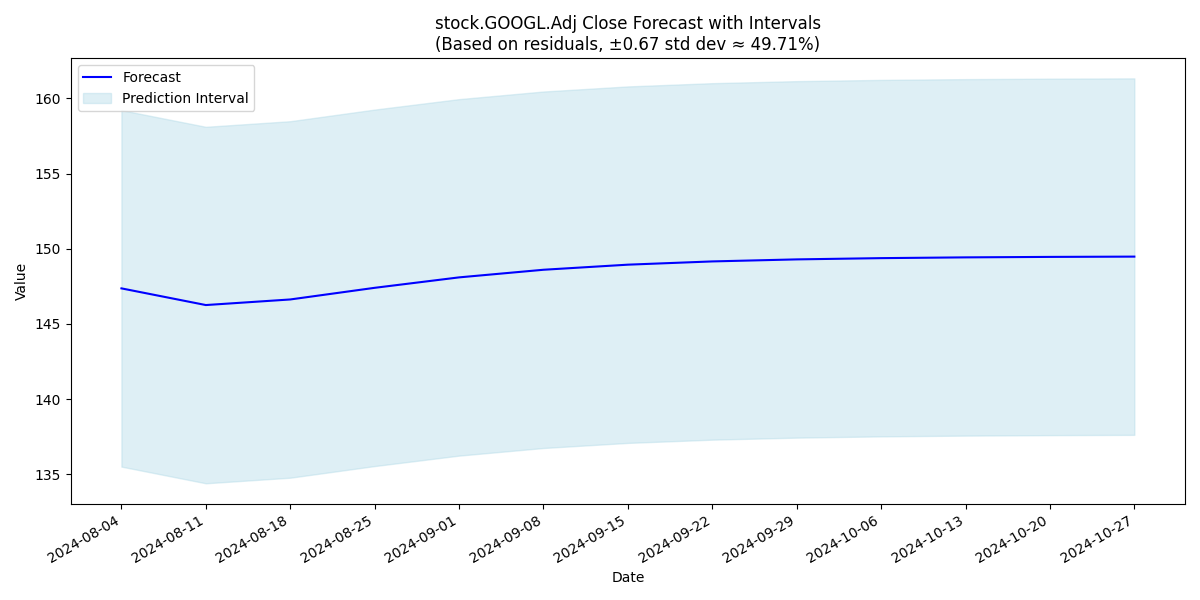
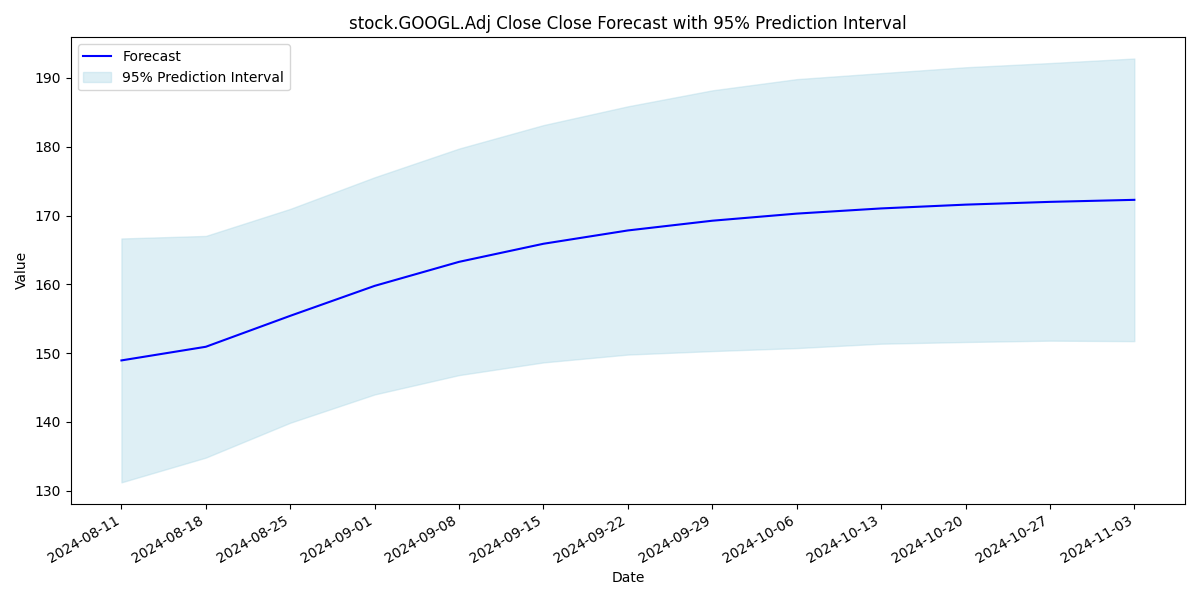
automated stock vwp field transformations, updated plot to properly handle forecasts per point

diff --git a/CNN_LSTM/evaluation.py b/CNN_LSTM/evaluation.py
@@ -17,10 +17,15 @@ def split_sequence(sequence, look_back, forecast_range, forecast_indices):
         y.append(seq_y)
     return np.array(X), np.array(y)
 
-def calculate_prediction_intervals_based_on_residuals(predictions, std_devs):
-    lower_bounds = predictions - std_devs
-    upper_bounds = predictions + std_devs
-    return lower_bounds, upper_bounds
+def calculate_prediction_intervals_based_on_residuals(yhat_forecast_inverse, std_devs_time_step, confidence_level=0.95):
+    # Determine the z-score for the specified confidence level (95%)
+    z_score = stats.norm.ppf(1 - (1 - confidence_level) / 2)
+    
+    # Calculate the prediction intervals
+    lower_bounds_residuals = yhat_forecast_inverse - z_score * std_devs_time_step
+    upper_bounds_residuals = yhat_forecast_inverse + z_score * std_devs_time_step
+    
+    return lower_bounds_residuals, upper_bounds_residuals
 
 def inverse_transform(scaler, y_test, yhat, forecast_indices):
     y_test_reshaped = y_test.reshape(-1, y_test.shape[-1])
@@ -45,6 +50,27 @@ def evaluate_forecast(y_test_inverse, yhat_inverse):
     mae = np.mean(np.abs(y_test_inverse - yhat_inverse))
     mape = np.mean(np.abs((y_test_inverse - yhat_inverse) / y_test_inverse)) * 100
     return mae, mse, mape
+
+def calculate_per_residual_intervals(residuals_per_simulation, std_dev_constant=1):
+    """
+    Calculate per-residual confidence intervals based on the standard deviation
+    of residuals at each forecast point across all simulations.
+
+    Parameters:
+    - residuals_per_simulation (np.ndarray): Residuals for each forecast point 
+      across all simulations, with shape (num_simulations, forecast_range, num_features).
+    - std_dev_constant (float): The number of standard deviations for the interval.
+
+    Returns:
+    - lower_bounds (np.ndarray): Lower bounds of the prediction intervals.
+    - upper_bounds (np.ndarray): Upper bounds of the prediction intervals.
+    """
+    std_devs_per_point = np.std(residuals_per_simulation, axis=0)
+    mean_forecast = np.mean(residuals_per_simulation, axis=0)  # Calculate mean forecast
+    lower_bounds = mean_forecast - std_dev_constant * std_devs_per_point
+    upper_bounds = mean_forecast + std_dev_constant * std_devs_per_point
+
+    return lower_bounds, upper_bounds
 
 def objective(trial, combined_df, forecast_features, trial_results, include_flags, LOOK_BACK, FORECAST_RANGE, NUM_EPOCHS):
     # Select features to include using trial suggestions
@@ -210,8 +236,9 @@ def backtest_and_evaluate(study, combined_df, scaler, features, forecast_feature
     y_train_inverse_time_step = y_train_inverse.reshape(-1, FORECAST_RANGE, y_train_inverse.shape[-1])
     yhat_inverse_time_step = yhat_inverse.reshape(-1, FORECAST_RANGE, yhat_inverse.shape[-1])
     
+    # Compute residuals and standard deviations across both time steps and features
     residuals_time_step = y_train_inverse_time_step - yhat_inverse_time_step
-    std_devs_time_step = np.std(residuals_time_step, axis=0).squeeze()
+    std_devs_time_step = np.std(residuals_time_step, axis=0)  # Shape: (FORECAST_RANGE, n_features)
     
     last_values = scaled_data.values[-LOOK_BACK:]
     X_last = np.expand_dims(last_values, axis=0)
@@ -223,18 +250,24 @@ def backtest_and_evaluate(study, combined_df, scaler, features, forecast_feature
     
     yhat_forecast = yhat_forecast.reshape(-1, len(forecast_indices))
     yhat_forecast_inverse, _ = inverse_transform(scaler, np.zeros_like(yhat_forecast), yhat_forecast, forecast_indices)
-    
-    yhat_forecast_inverse_last = yhat_forecast_inverse
-    
-    std_dev_constant = 1
-    lower_bounds_original = yhat_forecast_inverse_last - std_dev_constant * yhat_forecast_inverse_last
-    upper_bounds_original = yhat_forecast_inverse_last + std_dev_constant * yhat_forecast_inverse_last
-    
-    lower_bounds_residuals, upper_bounds_residuals = calculate_prediction_intervals_based_on_residuals(yhat_forecast_inverse_last, std_devs_time_step)
-    
+
+    #TODO: should I move this logic into the plot function?
+    lower_bounds_residuals, upper_bounds_residuals = calculate_prediction_intervals_based_on_residuals(
+    yhat_forecast_inverse, 
+    std_devs_time_step, 
+    confidence_level=0.95  # Ensure it's 95% confidence interval
+    )
     last_date = combined_df.index[-1]
     date_range = pd.date_range(start=last_date, periods=FORECAST_RANGE, freq='W')
+
+    plot_predictions_with_intervals(
+        yhat_forecast_inverse, 
+        lower_bounds_residuals, 
+        upper_bounds_residuals, 
+        date_range, 
+        forecast_features
+    )
     
-    plot_predictions_with_intervals(yhat_forecast_inverse_last, lower_bounds_residuals, upper_bounds_residuals, date_range, forecast_features)
+    #plot_predictions_with_intervals(yhat_forecast_inverse, lower_bounds_residuals, upper_bounds_residuals, date_range, forecast_features, std_devs_time_step)
 
 

diff --git a/constants.py b/constants.py
@@ -10,33 +10,110 @@ start_date = end_date - timedelta(days=365*5)  # 5 years of data
 debug = False
 
 NUM_SIMULATIONS = 3  # or any other number you prefer
-N_TRIALS = 5
+N_TRIALS = 10
 NUM_EPOCHS = 20
 LOOK_BACK = 156
 FORECAST_RANGE = 13
 
+sector_etfs = [
+    "XLK",
+    "XLV",
+    "XLF",
+    "XLY",
+    "XLP",
+    "XLE",
+    "XLI",
+    "XLB",
+    "XLU",
+    "XLRE",
+    "XLC"
+]
+
+other_etfs = [
+    'VIX'
+]
+
+
+
 # Download data for tickers
-tickers = ['GOOGL', 'SPY']
+#vwp, volume, adj_close
+tickers_all = ['GOOGL', 'SPY']
+tickers_price = [*sector_etfs,*other_etfs]
+
+tickers_combined = [*tickers_all,*tickers_price]
 
 # Define your parameters
 forecast_features = ['stock.GOOGL.Adj Close']
 
-features = [
-    'stock.GOOGL.Adj Close', 
-    'stock.GOOGL.Volume', 
-    'stock.GOOGL.vwp', 
-    'stock.SPY.vwp', 
-    'stock.SPY.Volume', 
-    'stock.SPY.Adj Close', 
-    'fred.T10Y3M.value',
-    'fred.EFFR.value',
-    'date.quarter.Q1',
-    'date.quarter.Q2',
-    'date.quarter.Q3',
-    'date.quarter.Q4'
+sector_etf_features = [
+    "stock.XLK.AdjClose",
+    "stock.XLV.AdjClose",
+    "stock.XLF.AdjClose",
+    "stock.XLY.AdjClose",
+    "stock.XLP.AdjClose",
+    "stock.XLE.AdjClose",
+    "stock.XLI.AdjClose",
+    "stock.XLB.AdjClose",
+    "stock.XLU.AdjClose",
+    "stock.XLRE.AdjClose",
+    "stock.XLC.AdjClose"
 ]
+
+other_features = [
+    "stock.VIX.AdjClose"
+]
+
+
 
 # Define indicators
 indicators = ['T10Y3M', 'EFFR']
+
+# Base features to always include
+base_features = [
+    'date.quarter.Q1',
+    'date.quarter.Q2',
+    'date.quarter.Q3',
+    'date.quarter.Q4',
+    *sector_etf_features,
+    *other_features
+]
+def generate_features_for_tickers(tickers):
+    """Generate stock-related features based on provided tickers."""
+    features = []
+    for ticker in tickers:
+        features.append(f'stock.{ticker}.Adj Close')
+        features.append(f'stock.{ticker}.Volume')
+        features.append(f'stock.{ticker}.vwp')
+    return features
+
+def expand_indicators(indicators):
+    """Expand indicators into their .value representation."""
+    return [f'fred.{indicator}.value' for indicator in indicators]
+
+def create_feature_list(tickers_all, tickers_price, indicators, base_features):
+    """Create a list of all features including ticker-related, indicators, and base features."""
+    # Generate ticker-specific features for tickers_all
+    ticker_features = generate_features_for_tickers(tickers_all)
+    
+    # Generate ticker-specific features for tickets_price (sector ETFs and other ETFs)
+    price_features = generate_features_for_tickers(tickers_price)
+    
+    # Expand indicators
+    expanded_indicators = expand_indicators(indicators)
+    
+    # Combine all features
+    features = ticker_features + price_features + expanded_indicators + base_features
+    
+    return features
+
+# Generate the final features list
+features = create_feature_list(tickers_all, tickers_price, indicators, base_features)
+
+# Output the final features list for inspection
+print(features)
+print(features)
+#ffill, balance sheet info, fundamentals
+#inflation, gdp, unrate, confidence
+#how would I turn this into a graph?
 
 trial_results = []

diff --git a/CNN_LSTM/visualization.py b/CNN_LSTM/visualization.py
@@ -20,9 +20,8 @@ from constants import *
 
 import matplotlib.dates as mdates
 
-def plot_predictions_with_intervals(y_pred, lower_bound_res, upper_bound_res, dates, feature_names, std_dev=1):
-    # Ensure we're only using the last 13 points for the forecast horizon
-    forecast_length = FORECAST_RANGE
+def plot_predictions_with_intervals(y_pred, lower_bound_res, upper_bound_res, dates, feature_names):
+    forecast_length = len(dates)
     y_pred = y_pred[-forecast_length:]
     lower_bound_res = lower_bound_res[-forecast_length:]
     upper_bound_res = upper_bound_res[-forecast_length:]
@@ -36,25 +35,25 @@ def plot_predictions_with_intervals(y_pred, lower_bound_res, upper_bound_res, da
     if n_features == 1:
         axes = [axes]
     
-    z_score_percent = (stats.norm.cdf(std_dev) - stats.norm.cdf(-std_dev)) * 100
-    
     for i, (ax, feature) in enumerate(zip(axes, feature_names)):
         y_pred_trimmed = y_pred[:, i]
         
+        # Plot the forecast line
         ax.plot(dates, y_pred_trimmed, label='Forecast', color='blue')
-        ax.fill_between(dates, lower_bound_res[:, i], upper_bound_res[:, i], color='lightblue', alpha=0.4, label='Prediction Interval')
         
-        ax.set_title(f'{feature} Forecast with Intervals\n(Based on residuals, ±{std_dev:.2f} std dev ≈ {z_score_percent:.2f}%)')
+        # Plot 95% prediction intervals
+        ax.fill_between(dates, lower_bound_res[:, i], upper_bound_res[:, i], color='lightblue', alpha=0.4, label='95% Prediction Interval')
         
+        ax.set_title(f'{feature} Close Forecast with 95% Prediction Interval')
         ax.set_xlabel('Date')
         ax.set_ylabel('Value')
-        
         ax.legend(loc='upper left')
         
-        # Ensure x-axis shows exactly 13 dates
+        # Set x-axis ticks and format
         ax.set_xticks(dates)
         ax.xaxis.set_major_formatter(mdates.DateFormatter('%Y-%m-%d'))
 
     plt.gcf().autofmt_xdate()  # Rotate date labels
     plt.tight_layout()
     plt.savefig('forecast_intervals.png')
+    plt.close(fig)  # Close the figure to free up memory

diff --git a/main.py b/main.py
@@ -6,7 +6,7 @@ from functions import *
 device = torch.device("cuda" if torch.cuda.is_available() else "cpu")
 print(f"Using device: {device}")
 
-data = {ticker: yf.download(ticker, start=start_date, end=end_date) for ticker in tickers}
+data = {ticker: yf.download(ticker, start=start_date, end=end_date) for ticker in tickers_combined}
 
 # Create a date range from start_date to end_date
 all_dates = pd.date_range(start=start_date, end=end_date, freq='D').normalize()

diff --git a/imports.py b/imports.py
@@ -16,3 +16,4 @@ import torch.nn as nn
 import torch.optim as optim
 from scipy import stats
 import pandas_market_calendars as mcal
+from scipy import stats

diff --git a/readme.md b/readme.md
@@ -1,2 +1,7 @@
 Inspired by
 #https://towardsdatascience.com/cnn-lstm-based-models-for-multiple-parallel-input-and-multi-step-forecast-6fe2172f7668
+
+Tree-structured Parzen Estimator
+
+optimal lags identified via max absolute significant Median Correlation over moving windows
+
